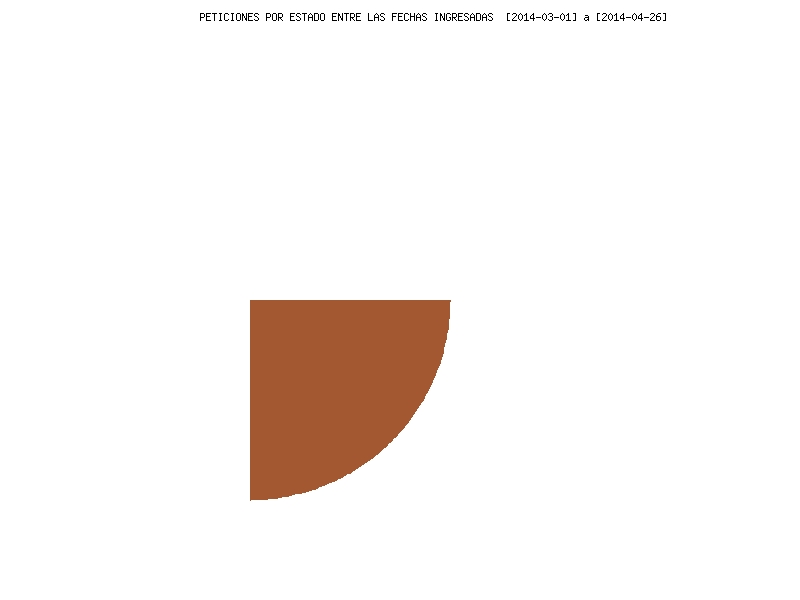
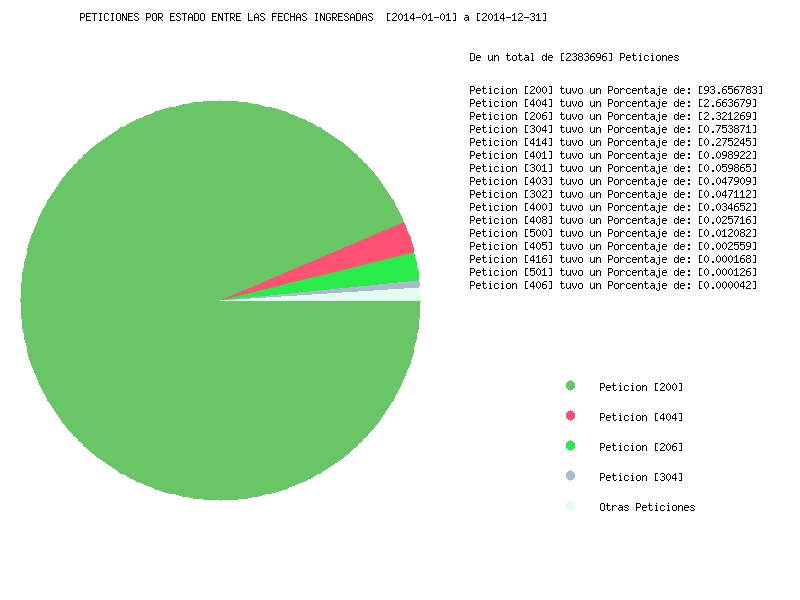
Afinando detalles

diff --git a/Tarea01_PostgreSQL/tarea01.cpp b/Tarea01_PostgreSQL/tarea01.cpp
@@ -3,7 +3,6 @@
 #include <cstring>
 #include <stdio.h>
 #include <time.h>
-#include <math.h>
 #include <cstdlib>
 #include <libpq-fe.h>
 #include <fstream>
@@ -192,7 +191,7 @@ gdImagePtr imagen;
 FILE *archivo;
 gdFontPtr fuente = gdFontGetSmall();
 imagen = gdImageCreateTrueColor(IMG_WIDTH, IMG_HEIGHT);
-int blanco, negro, colorAleatorio, alto = 50, ancho = 70;
+int blanco, negro, colorAleatorio, alto = 50, ancho = 70, ValorGrafico, CantidadGraficada = 0;
 long paso = 0, maximo = 0;
 char titulo[513];
 double porcentaje = 0.0, PorcentajeParcial = 0.0;
@@ -251,10 +250,7 @@ if((argc==2)||(argc==4))
                                     PivoteMes++;
                                 }
                                 if (i == tuplas-1 && j == 0) UltimoMes = atoi(ResultadoParcial);
-                                //cout << ResultadoParcial;
-                                //cout<<" | ";
                             }
-                        //cout << endl;
                         }
                         /*Seccion que genera el JPEG*/
 
@@ -361,7 +357,7 @@ if((argc==2)||(argc==4))
             // Se imprime el titulo
             memset(titulo, 0, 513);
             snprintf(titulo, 513, "PETICIONES POR ESTADO ENTRE LAS FECHAS INGRESADAS  [%s] a [%s]", argv[2], argv[3]);
-            gdImageString(imagen, fuente, (int) IMG_WIDTH * 0.25, 10, (unsigned char *) titulo, negro);
+            gdImageString(imagen, fuente, (int) IMG_WIDTH * 0.1, 10, (unsigned char *) titulo, negro);
             fflush(stdout);
 
                 if (PQstatus(conexion) != CONNECTION_BAD) {
@@ -378,28 +374,78 @@ if((argc==2)||(argc==4))
                                 if (j == 1) CantidadPeticiones = CantidadPeticiones + atoi(PQgetvalue(resultado_SQL,i,j));
 
                         // Se obtienen los porcentajes y dibujar graficos
+                        int ValorAnterior = 0;
+                        int pasoLineaColores = 385;
                         for (i=0; i < tuplas; i++)
                         {
                             for (j=0; j < campos; j++)
                             {
-                                cout << PQgetvalue(resultado_SQL,i,j);
-                                cout << " | ";
                                 if (j == 1)
                                 {
-                                    PorcentajeParcial = ((double)atoi(PQgetvalue(resultado_SQL,i,j))/CantidadPeticiones)*100;
-                                    cout << " | " << PorcentajeParcial;
+                                    PorcentajeParcial = ((double)atoi(PQgetvalue(resultado_SQL,i,j))/CantidadPeticiones);
+                                    ValorGrafico = (PorcentajeParcial) * 360;
 
-                        colorAleatorio = gdImageColorAllocate(imagen, aleatoreo(), aleatoreo(), aleatoreo());
-                        gdImageFilledArc(imagen, 250, 300, 400, 400, 0, 90, colorAleatorio, gdPie);
-                        /*
-                        colorAleatorio = gdImageColorAllocate(imagen, aleatoreo(), aleatoreo(), aleatoreo());
-                        gdImageFilledArc(imagen, 250, 300, 400, 400, 45, 75, colorAleatorio, gdPie);
-                        colorAleatorio = gdImageColorAllocate(imagen, aleatoreo(), aleatoreo(), aleatoreo());
-                        gdImageFilledArc(imagen, 250, 300, 400, 400, 75, 360, colorAleatorio, gdPie);*/
+                                    /*Se grafican de manera individual cada una de las peticiones por mes que son
+                                    apreciables, aplicando el filtro que al menos debe tener el valor 1 en la conversion
+                                    proporcional del porcentaje de peticiones y el grafico de torta (360 grados) */
+                                    if (ValorGrafico >= 1)
+                                    {
+
+                                        colorAleatorio = gdImageColorAllocate(imagen, aleatoreo(), aleatoreo(), aleatoreo());
+                                        gdImageFilledArc(imagen, 220, 300, 400, 400, ValorAnterior, ValorGrafico + ValorAnterior, colorAleatorio, gdPie);
+                                        gdImageFilledArc(imagen, 570, pasoLineaColores, 10, 10, 0, 360, colorAleatorio, gdPie);
+                                        ValorAnterior = ValorGrafico + ValorAnterior;
+                                        pasoLineaColores = pasoLineaColores + 30;
+                                        CantidadGraficada++;
+                                    }
                                 }
                             }
-                            cout << endl;
                         }
+
+                        /* Se completa el grafico con otras peticiones que son despreciables graficamente hablando*/
+                        colorAleatorio = gdImageColorAllocate(imagen, aleatoreo(), aleatoreo(), aleatoreo());
+                        gdImageFilledArc(imagen, 220, 300, 400, 400, ValorAnterior, 360, colorAleatorio, gdPie);
+                        //pasoLineaColores = pasoLineaColores + 30;
+                        gdImageFilledArc(imagen, 570, pasoLineaColores, 10, 10, 0, 360, colorAleatorio, gdPie);
+
+                        /*Normalizar el gráfico*/
+
+                        // Se etiqueta un subtitulo
+                        int pasoLinea = 50;
+                        memset(titulo, 0, 513);
+                        snprintf(titulo, 513, "De un total de [%llu] Peticiones", CantidadPeticiones);
+                        gdImageString(imagen, fuente, 470, pasoLinea , (unsigned char *) titulo, negro);
+                        fflush(stdout);
+                        pasoLinea = pasoLinea + 20;
+
+                        for (i=0; i < tuplas; i++)
+                        {
+                            // Se publican los porcentajes
+                            pasoLinea = pasoLinea + 13;
+                            memset(titulo, 0, 513);
+                            snprintf(titulo, 513, "Peticion [%s] tuvo un Porcentaje de: [%f]", PQgetvalue(resultado_SQL,i,0), (atof(PQgetvalue(resultado_SQL,i,1))/CantidadPeticiones)*100);
+                            gdImageString(imagen, fuente, 470, pasoLinea, (unsigned char *) titulo, negro);
+                            fflush(stdout);
+                        }
+
+                        // Se indexa el grafico para su interpretacion
+                        pasoLinea = 380 ;
+                        for (i=0; i < CantidadGraficada; i++)
+                        {
+                            // Se publican los porcentajes
+                            memset(titulo, 0, 513);
+                            snprintf(titulo, 513, "Peticion [%s]", PQgetvalue(resultado_SQL,i,0));
+                            gdImageString(imagen, fuente, 600, pasoLinea, (unsigned char *) titulo, negro);
+                            fflush(stdout);
+                            pasoLinea = pasoLinea + 30;
+                        }
+
+                        // Otros Porcentajes
+                        memset(titulo, 0, 513);
+                        snprintf(titulo, 513, "Otras Peticiones");
+                        gdImageString(imagen, fuente, 600, pasoLinea, (unsigned char *) titulo, negro);
+                        fflush(stdout);
+
 
                         // Se guarda la imagen en un archivo
                         archivo = fopen("Peticiones_Estado.jpeg", "wb");
